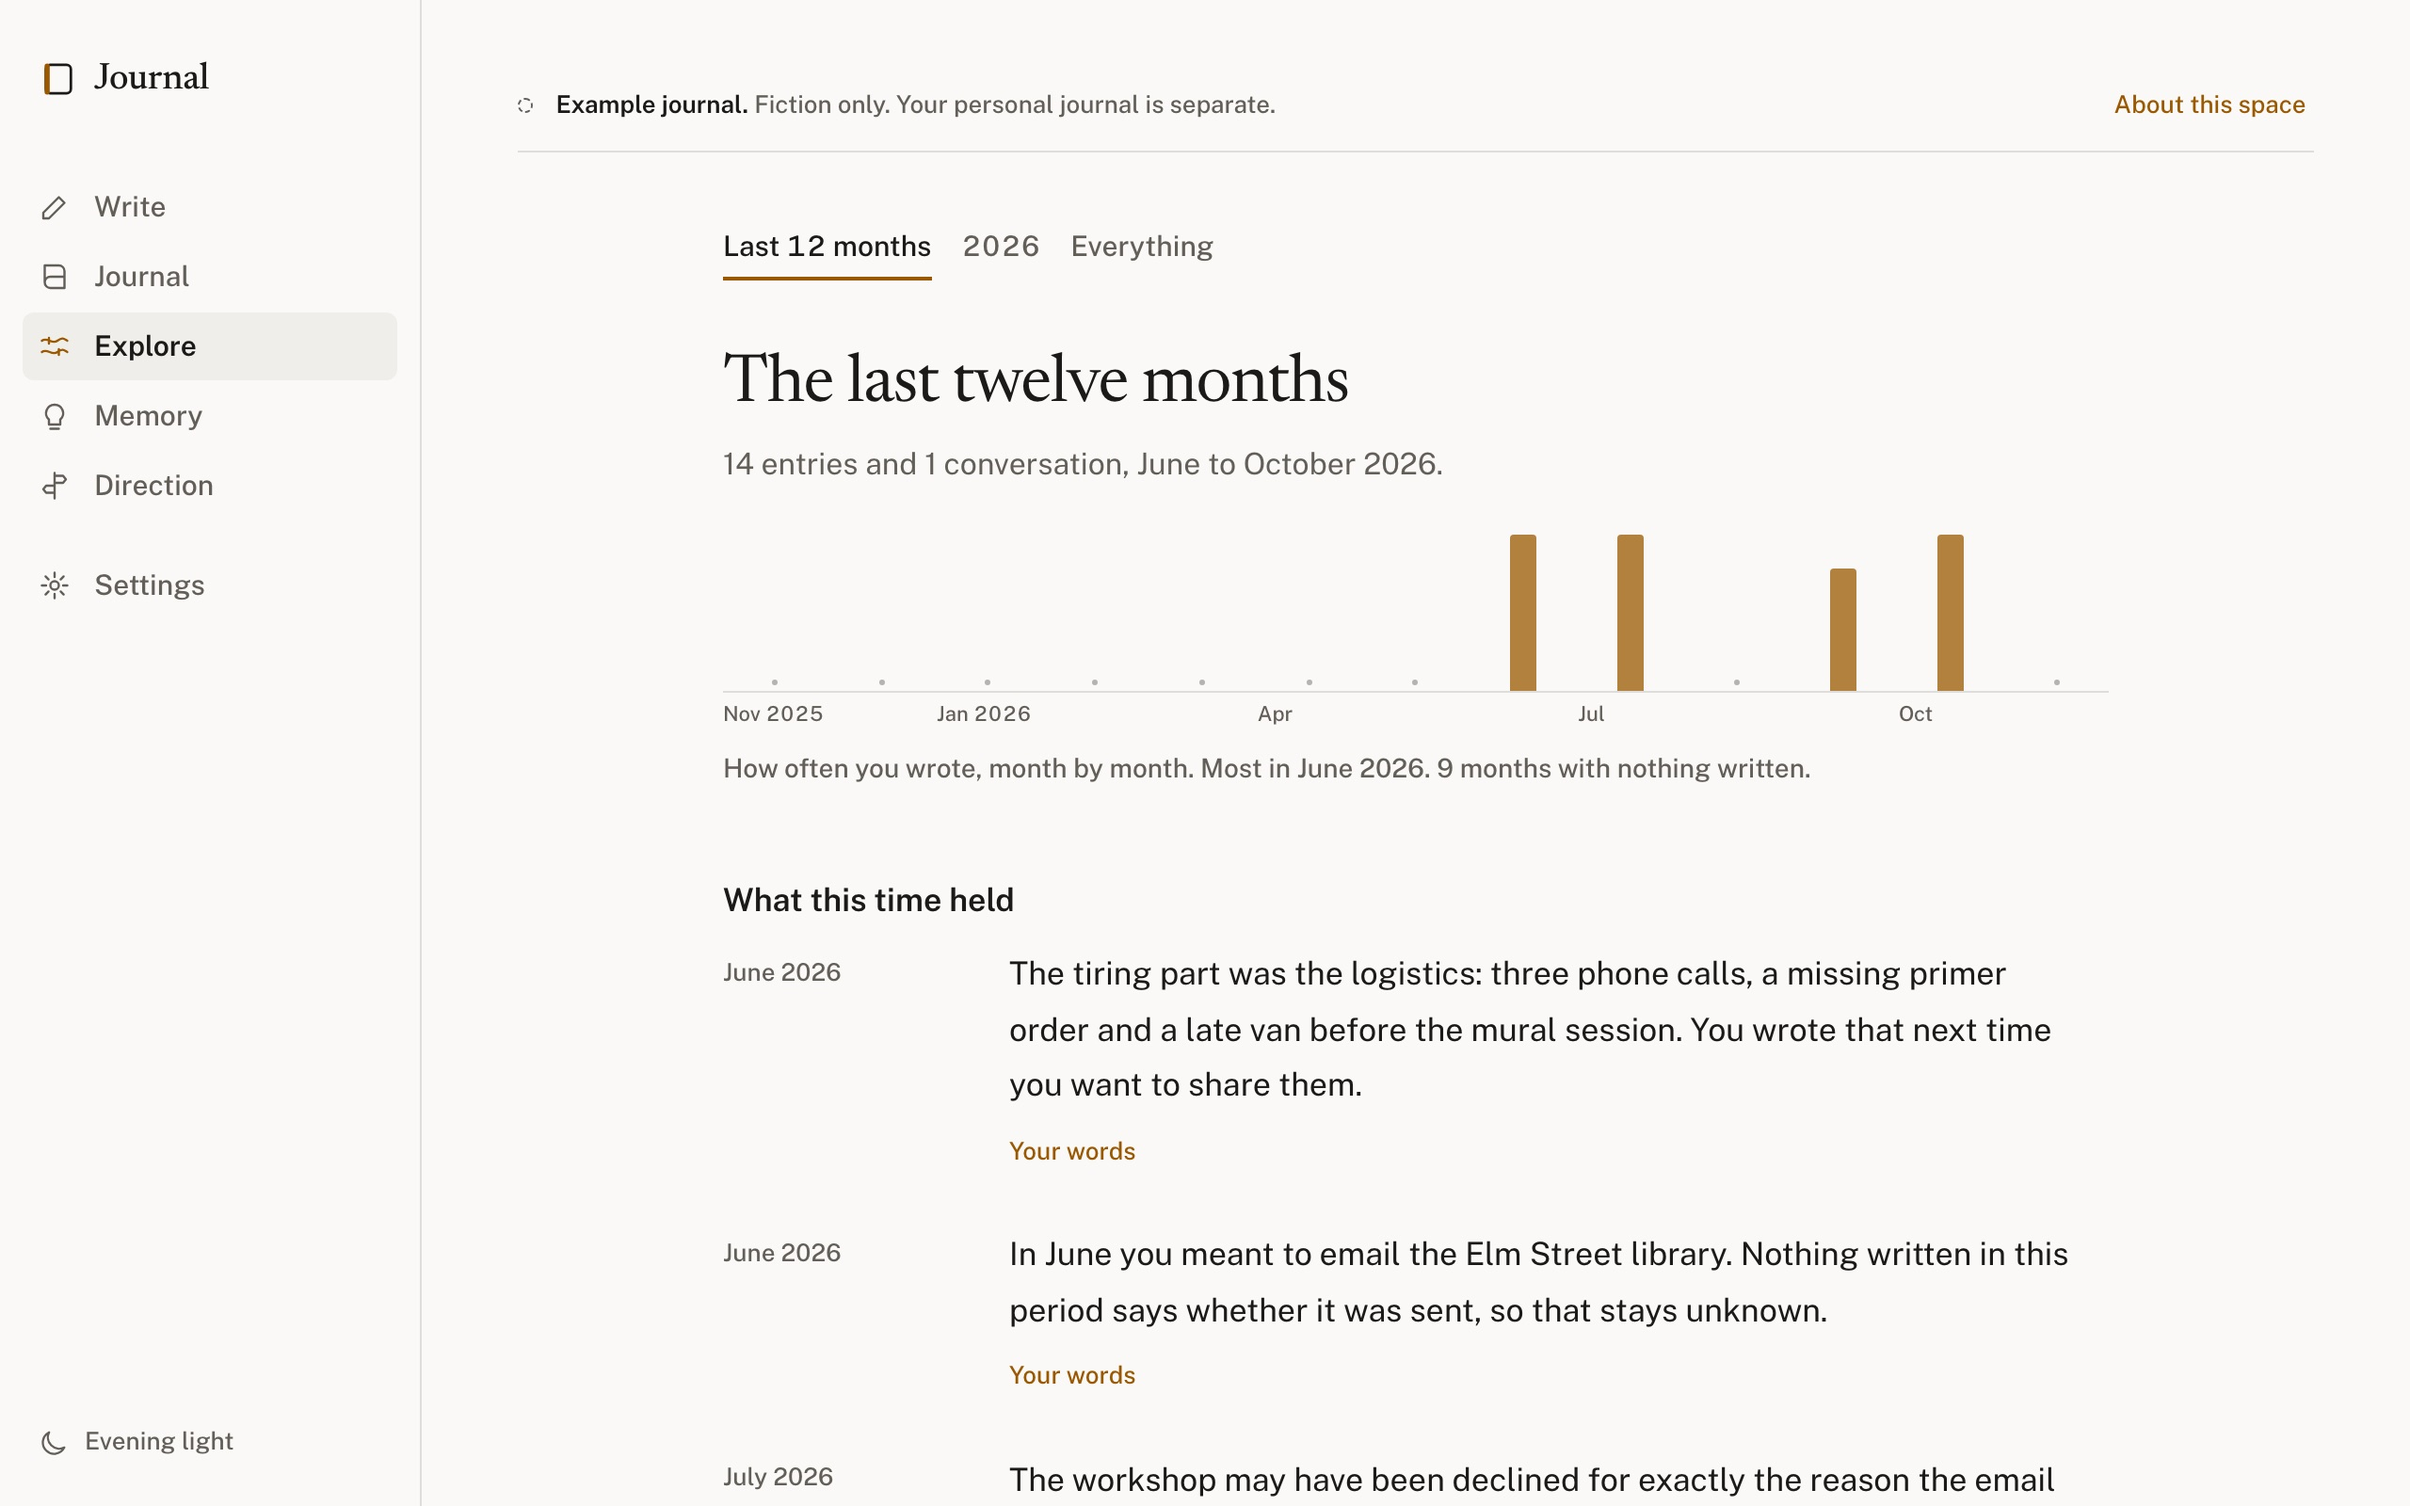
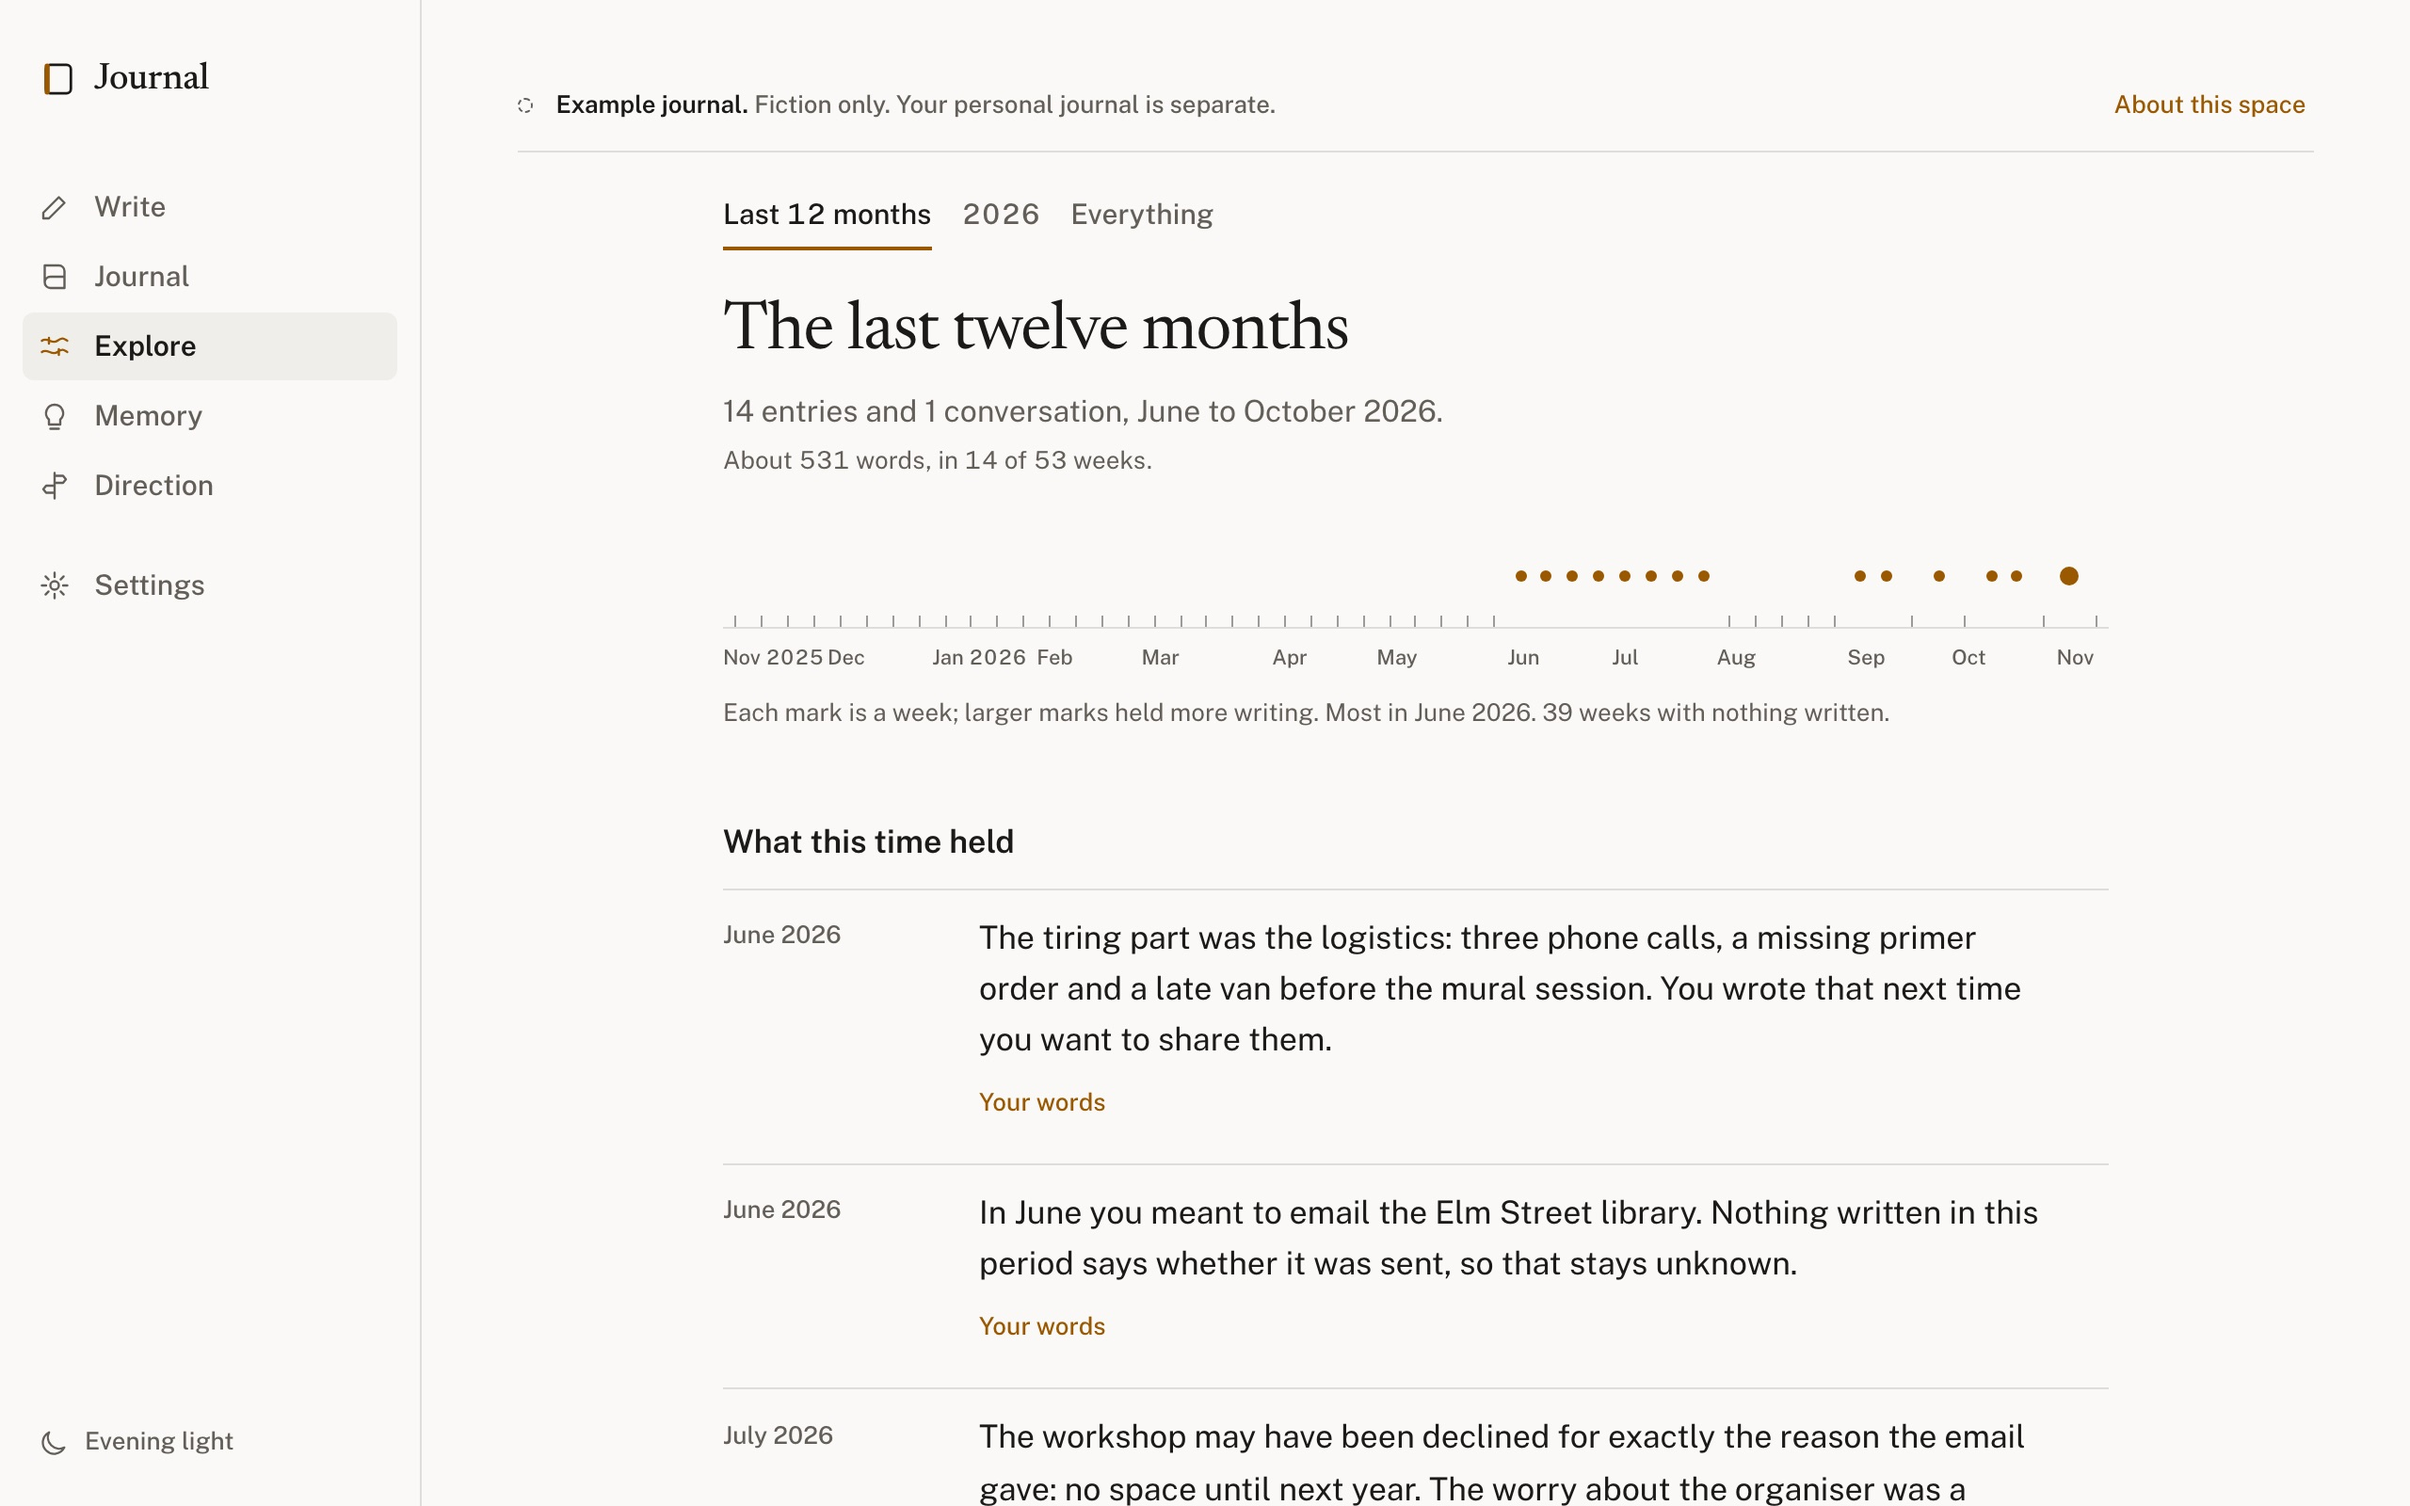
Update the Journal case study's Explore screenshot to the weekly band

diff --git a/src/data/site.ts b/src/data/site.ts
@@ -284,7 +284,7 @@ export const work: Work[] = [
     outcome:
       "It finally feels like mine: a plain notebook I open without thinking, with the analysis one step away instead of in my face. The design decisions, the AI's short character brief and the privacy rules are written down next to the code, so the next change keeps all three.",
     gallery: [
-      { src: journalExplore, alt: "The Explore page: a strip of monthly bars, reflection lines with their dates, and two columns for what helped and what was hard", caption: "The look back: how often you wrote, what the time held, and what helped and what was hard side by side." },
+      { src: journalExplore, alt: "The Explore page: a row of weekly marks sized by how much was written, reflection lines with their dates, and two columns for what helped and what was hard", caption: "The look back: one mark per week, what the time held, and what helped and what was hard side by side." },
       { src: journalJournal, alt: "The Journal page: search, plain filters, and entries listed under month headings with the day number in the margin", caption: "Entries and conversations in one chronology, with the months that had nothing written shown as gaps." },
       { src: journalMemory, alt: "The Memory page: short sentences the journal remembers, each with its date, sources and a Change link", caption: "What the journal remembers, each sentence marked as your words or a reading, with its sources one click away." },
       { src: journalLanding, alt: "The landing page: a large serif headline on warm paper above a short introduction and a demo button", caption: "The public page is the same notebook seen from the doorway, with a browser-only demo." },
